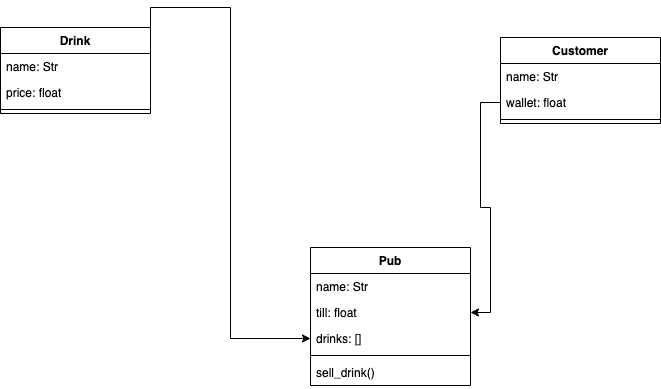
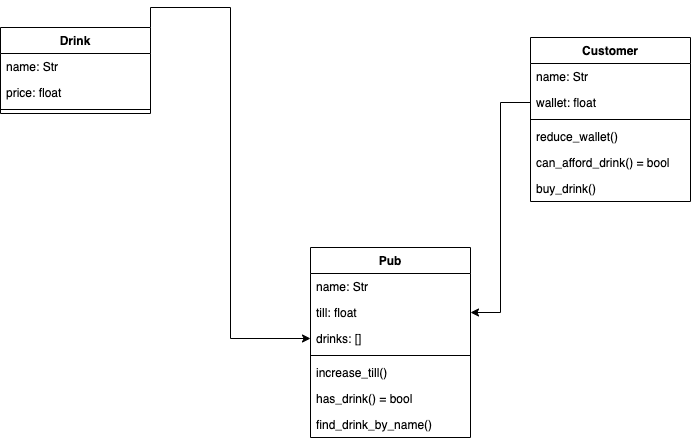
pub class added

diff --git a/tests/pub_test.py b/tests/pub_test.py
@@ -1,0 +1,27 @@
+import unittest
+from classes.pub import *
+from classes.drink import *
+
+class TestPub(unittest.TestCase):
+    def setUp (self):
+        drink = Drink("rusty nail", 7)
+        self.pub = Pub("last mans drop", 1000, [drink] )
+
+    def test_pub_name(self): 
+        self.assertEqual("last mans drop", self.pub.name)
+    
+    def test_pub_has_till(self):
+    
+        self.assertEqual(1000, self.pub.till)
+    
+    def test_pub_has_drinks(self):
+        self.assertEqual(1, len(self.pub.drinks))
+    
+    def test_find_drink_by_name(self):
+        drink = self.pub.find_drink_by_name("rusty nail")
+        self.assertEqual("rusty nail", drink.name)
+    
+    def test_return_drink_price(self):
+       drink = self.pub.find_drink_by_name("rusty nail")
+       self.assertEqual(7,drink.price)
+       

diff --git a/classes/customer.py b/classes/customer.py
@@ -1,3 +1,6 @@
+# from classes.drink import *
+# from classes.pub import *
+
 class Customer:
     # declare data-types
     name = str
@@ -5,4 +8,20 @@ class Customer:
     def __init__(self, name, wallet):
         self.name = name 
         self.wallet = wallet 
+
     # function example
+        
+        # Enter name of drink
+        # Find price of that drink
+
+    
+        # Check customer can afford drink
+    def reduce_cash(self, amount):
+        self.cash -= amount
+        # If yes
+
+        # Reduce money in wallet
+        # Increase money in till
+
+        # If no
+        # No drink

diff --git a/classes/pub.py b/classes/pub.py
@@ -1,0 +1,17 @@
+class Pub:
+    # declare data-types
+    name = str
+    # initialise Person Class
+    def __init__(self, name, till, drinks):
+        self.name = name 
+        self.till = till
+        self.drinks = drinks
+    
+    def increase_till(self, amount):
+        self.till += amount
+    # function example
+    def find_drink_by_name(self, drink_found):
+        for drink in self.drinks:
+            if drink.name == drink_found:
+                return drink
+        return None

diff --git a/run_tests.py b/run_tests.py
@@ -1,6 +1,7 @@
 import unittest
 from tests.customer_tests import TestCustomer
 from tests.drink_test import TestDrink
+from tests.pub_test import TestPub
 
 if __name__ == "__main__":
     unittest.main()

diff --git a/tests/customer_tests.py b/tests/customer_tests.py
@@ -1,6 +1,7 @@
 import unittest
 from classes.customer import *
 
+
 class TestCustomer(unittest.TestCase):
     def setUp (self):
         self.customer = Customer("Bobby Ramshaw", 247.22)

diff --git a/tests/drink_test.py b/tests/drink_test.py
@@ -2,6 +2,7 @@ import unittest
 from classes.drink import *
 
 class TestDrink(unittest.TestCase):
+
     def setUp (self):
         self.drink = Drink("rusty nail", 7)
     
